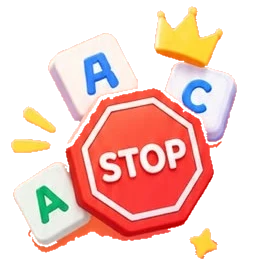
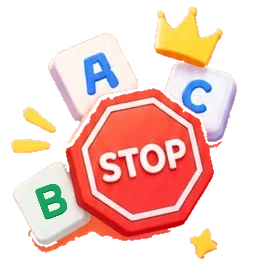
Ana sayfa: kaplan göz kırpıyor, kulak kenarı temizlendi, İsim Şehir kutuları A-B-C; ilk açılış ekranı yeni tasarımda

Changed region(s): [[0.125, 0.6765, 0.2812, 0.8235]]

diff --git a/src/styles/app.css b/src/styles/app.css
@@ -148,15 +148,33 @@
 
 /* Selam balonu (solda) ve maskot kaplan (sağda); kaplanın alt kısmı ilk kartın arkasında kalır. */
 .home__hero { position: relative; height: 150px; margin: -8px 0 -4px; pointer-events: none; }
-.home__mascot {
+.home__hero .home__mascot {
   position: absolute;
   right: -10px;
   bottom: -34px;
   width: min(54vw, 214px);
-  height: auto;
+}
+/* Maskot (bkz. components/Mascot.tsx): sallanma + göz kırpma */
+.mascot {
+  position: relative;
+  aspect-ratio: 380 / 326;
   filter: drop-shadow(0 8px 14px rgba(58, 43, 39, 0.14));
   animation: mascot-wave 4.5s ease-in-out infinite;
   transform-origin: 60% 100%;
+}
+.mascot__img { display: block; width: 100%; height: auto; }
+.mascot__blink {
+  position: absolute;
+  left: 25.79%;
+  top: 36.81%;
+  width: 22.1%;
+  opacity: 0;
+  animation: mascot-blink 4.2s 1.2s infinite;
+}
+@keyframes mascot-blink {
+  0%, 90%, 100% { opacity: 0; }
+  91%, 94.5% { opacity: 1; }
+  95.5% { opacity: 0; }
 }
 @keyframes mascot-wave { 0%, 100% { rotate: 0deg; } 50% { rotate: -2.5deg; } }
 .hello {
@@ -340,9 +358,12 @@ body.has-ad .tabbar { bottom: calc(var(--safe-bottom) + 8px + var(--ad-h, 0px));
 
 /* ---------- Profil ---------- */
 
-.profile__hello { display: flex; flex-direction: column; align-items: center; gap: 12px; margin: 8px 0; text-align: center; }
-.profile__card { padding: 20px; display: flex; flex-direction: column; gap: 12px; }
-.profile__preview { display: grid; place-items: center; padding: 6px 0 4px; }
+.profile__card { position: relative; z-index: 1; padding: 20px; display: flex; flex-direction: column; gap: 12px; border-radius: var(--radius-lg); }
+.profile__preview { display: flex; flex-direction: column; align-items: center; gap: 10px; padding: 6px 0 4px; }
+.profile__name { font-family: var(--display); font-weight: 700; font-size: 24px; max-width: 100%; overflow: hidden; text-overflow: ellipsis; white-space: nowrap; }
+.profile__name.is-empty { color: var(--line-2); }
+/* ana sayfadaki gibi büyük, yuvarlak, mercan degrade düğme */
+.pill--go { --cd: #c93a4f; border-radius: 999px; background: linear-gradient(120deg, #ff7f5c, #fb5a72 60%, #f5527c); }
 .field { display: flex; flex-direction: column; gap: 8px; }
 .field__label { font-family: var(--display); font-weight: 600; font-size: 17px; color: var(--ink-2); }
 .field__row { display: flex; gap: 10px; align-items: center; }
@@ -378,7 +399,7 @@ body.has-ad .tabbar { bottom: calc(var(--safe-bottom) + 8px + var(--ad-h, 0px));
   place-items: center;
   transition: transform 0.12s, background 0.15s, box-shadow 0.15s;
 }
-.avatar-pick.is-on { background: var(--sun-soft); box-shadow: 0 0 0 3px var(--sun-dark); transform: scale(1.08); }
+.avatar-pick.is-on { background: var(--coral-soft); box-shadow: 0 0 0 3px var(--coral), 0 6px 12px rgba(222, 77, 45, 0.25); transform: scale(1.08); }
 .color-row { display: flex; flex-wrap: wrap; gap: 10px; }
 .color-dot { width: 40px; height: 40px; border-radius: 50%; display: grid; place-items: center; box-shadow: 0 3px 0 rgba(0, 0, 0, 0.15); transition: transform 0.12s; }
 .color-dot.is-on { transform: scale(1.15); box-shadow: 0 0 0 3px #fff, 0 0 0 6px var(--ink); }

diff --git a/src/pages/Profile.tsx b/src/pages/Profile.tsx
@@ -3,7 +3,8 @@ import { useEffect, useState } from 'react';
 import { useNavigate, useSearchParams } from 'react-router-dom';
 import { Doodles } from '../components/Doodles';
 import { Icon } from '../components/Icon';
-import { Avatar, Logo, TopBar } from '../components/ui';
+import { Mascot } from '../components/Mascot';
+import { Avatar, TopBar } from '../components/ui';
 import { avatarIcon } from '../art/icons';
 import { privacyOptionsRequired, showPrivacyOptions } from '../lib/ads';
 import { sfx } from '../lib/sfx';
@@ -40,10 +41,13 @@ export default function Profile() {
     <main className="bg page profile">
       <Doodles variant={1} />
       {first ? (
-        <div className="profile__hello pop-in">
-          <Logo small />
-          <p className="sub">Hoş geldin! Önce seni tanıyalım.</p>
-        </div>
+        <section className="home__hero profile__hero">
+          <div className="hello pop-in">
+            <b>Hoş geldin!</b>
+            <span>Önce seni tanıyalım. Adın ne?</span>
+          </div>
+          <Mascot className="home__mascot" />
+        </section>
       ) : (
         <TopBar title="Profilim" />
       )}
@@ -51,6 +55,7 @@ export default function Profile() {
       <div className="paper-card profile__card rise">
         <div className="profile__preview">
           <Avatar emoji={avatar} color={color} size={96} />
+          <b className={`profile__name ${name.trim() ? '' : 'is-empty'}`}>{name.trim() || 'Adın'}</b>
         </div>
         <label className="field">
           <span className="field__label">Adın</span>
@@ -109,7 +114,7 @@ export default function Profile() {
       </div>
 
       <div className="page__cta">
-        <button className="pill pill--big" disabled={!ok} onClick={save}>
+        <button className="pill pill--big pill--go" disabled={!ok} onClick={save}>
           {first ? 'Hadi Başlayalım!' : 'Kaydet'}
         </button>
       </div>

diff --git a/src/pages/Home.tsx b/src/pages/Home.tsx
@@ -4,8 +4,8 @@ import { useNavigate } from 'react-router-dom';
 import artFilm from '../assets/home/film.webp';
 import artIsim from '../assets/home/isim.webp';
 import artSiram from '../assets/home/siram.webp';
-import mascot from '../assets/home/tiger.webp';
 import { Doodles } from '../components/Doodles';
+import { Mascot } from '../components/Mascot';
 import { TabBar } from '../components/TabBar';
 import { Avatar, Modal, useToast } from '../components/ui';
 import { hideBanner, showBanner } from '../lib/ads';
@@ -97,7 +97,7 @@ export default function Home() {
           <b>Merhaba {p.name}!</b>
           <span>Bugün hangi oyunu oynayalım?</span>
         </div>
-        <img className="home__mascot" src={mascot} alt="" draggable={false} />
+        <Mascot className="home__mascot" />
       </section>
 
       <section className="home__games">

diff --git a/src/components/Mascot.tsx b/src/components/Mascot.tsx
@@ -1,0 +1,16 @@
+/**
+ * Maskot kaplan: hafifçe sallanır, arada bir açık gözünü kırpar.
+ * Göz kırpma: kırpan gözün aynalanmış hâli (tiger-blink.webp) açık gözün üstünde kısa süre görünür.
+ * Konumu resmin piksellerine göre (380×326 resimde 98,120 noktası, 84 px kare).
+ */
+import blink from '../assets/home/tiger-blink.webp';
+import tiger from '../assets/home/tiger.webp';
+
+export function Mascot({ className }: { className?: string }) {
+  return (
+    <div className={`mascot ${className ?? ''}`} aria-hidden="true">
+      <img className="mascot__img" src={tiger} alt="" draggable={false} />
+      <img className="mascot__blink" src={blink} alt="" draggable={false} />
+    </div>
+  );
+}

diff --git a/src/styles/landscape.css b/src/styles/landscape.css
@@ -43,6 +43,11 @@
   /* Üç oyun yan yana; kaplan ve selam balonu yer kaplamasın diye gizli */
   :root { --tabbar-h: 56px; }
   .home__hero { display: none; }
+  .profile__hero { display: block; height: 96px; }
+  .home__hero.profile__hero .home__mascot { width: 130px; bottom: -22px; }
+  .profile__hero .hello { top: 8px; padding: 8px 14px; }
+  .profile__hero .hello b { font-size: 17px; }
+  .profile__hero .hello span { font-size: 13px; }
   .home__games { flex-direction: row; align-items: stretch; gap: 10px; }
   .game-card { flex: 1; min-width: 0; padding: 10px 10px 10px 0; border-radius: 24px; }
   .game-card__art { width: 34%; max-width: 96px; }

diff --git a/src/styles/tablet.css b/src/styles/tablet.css
@@ -29,7 +29,7 @@
   :root { --tabbar-h: 88px; }
   .home__top, .home__hero, .home__games, .home > .rejoin, .stats-page > :is(.topbar, .stat-grid, .stat-total, .stat-empty, .stat-note) { width: 100%; max-width: 760px; margin-left: auto; margin-right: auto; }
   .home__hero { height: 200px; }
-  .home__mascot { width: 290px; bottom: -46px; }
+  .home__hero .home__mascot { width: 290px; bottom: -46px; }
   .hello { top: 30px; padding: 20px 26px; border-radius: 32px; }
   .hello b { font-size: 30px; }
   .hello span { font-size: 19px; }

diff --git a/CLAUDE.md b/CLAUDE.md
@@ -71,6 +71,10 @@
     Kartlarda tasarımdaki taç yok (anlamı belirlenmedi). Resimler `src/assets/home/*.webp` — ayrı dosyalar
     olmadığı için **tasarım ekran görüntüsünden kesildi** (`~/Downloads/kelime-oyunlari-expo/assets/home-reference.jpg`,
     arka plan kenardan taşma ile silindi); çözünürlük düşük, asıl çizimler gelirse değiştirilmeli.
+    İsim Şehir resmindeki yeşil kutu elle "A"dan **"B"ye** çevrildi (kullanıcı isteği: kutular A, B, C).
+    Maskot `components/Mascot.tsx`: sallanır ve göz kırpar (`tiger-blink.webp` = kırpan gözün aynası,
+    açık gözün üstünde kısa süre görünür; konum yüzdeleri resmin 380×326 piksel ölçüsüne bağlı).
+    İlk açılış / profil ekranı da aynı dilde: logo yerine selam balonu + maskot.
     Beğenilmezse geri almak için bu commit'i `git revert` etmek yeter.
   - **Ekran düzeni:** `src/styles/app.css` + `game.css` telefon dikey; `tablet.css` 700 px'ten geniş ekranlar;
     `landscape.css` yatay tutulan telefonlar (`orientation: landscape` ve yükseklik ≤ 560 px) — yatayda telefon
